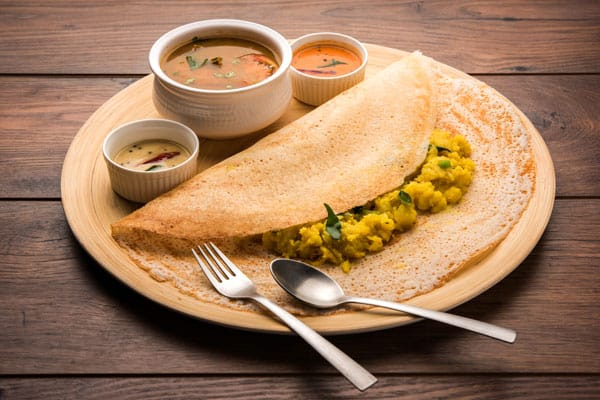
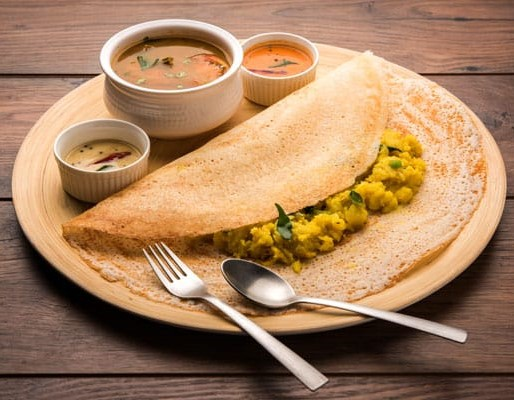
ok

diff --git a/exer1011.html b/exer1011.html
@@ -3,22 +3,22 @@
 <header>
   <title>Wagetable Recipes&nbsp;&nbsp; </title>
   <h1 align="center"><u>Wagetable Recipes </u></h1>
-  <hr><table width="80% " align="justify"> 
+  <hr><table width="90% " align="center"> 
     <tr>
-        <td><h9>1.Kaju Curry Masala </h9></a></td>
-        <td><h9>2.Masala Dosa </h9></a> </td>
-        <td><h9>3.Manchurian </h9></a></td>
-        <td><h9>4.Masala idli</h9></a></td>
-        <td><h9>5.Cutlet</h9></a></td>
-        <td><h9>6.Momos</h9></a></td>
+        <td width="15%"><h9>1.Kaju Curry Masala </h9></a></td>
+        <td  width="15%"><h9>2.Masala Dosa </h9></a> </td>
+        <td  width="15%"><h9>3.Manchurian </h9></a></td>
+        <td  width="15%"><h9>4.Masala idli</h9></a></td>
+        <td  width="15%"><h9>5.Cutlet</h9></a></td>
+        <td  width="15%"><h9>6.Momos</h9></a></td>
       </tr>
   </table></header>
   <hr>
   <table width="80%" align="center">
     <tr>
-      <td><img src="image/Kaju1.jpg" width="720px" height="720"> </td>&nbsp;
-      <td><img src="image/dosa.png" width="670px" height="770"> </td>&nbsp;
-      <td><img src="image/manchurian2.jpeg" width="750px"  height="770"> </td>&nbsp;
+      <td><img src="image/Kaju1.jpg" width="750px" height="768"> </td>&nbsp;
+      <td><img src="image/Dosa2.jpg" width="750px" height="770"> </td>&nbsp;
+      <td><img src="image/manchurian2.jpeg" width="770px"  height="770"> </td>&nbsp;
     </tr>
     <tr>
         <td><a href="kaju.html"><h1>1.Kaju Curry Masala recipe </h1></a></td>
@@ -28,9 +28,9 @@
   </table>
   <table width="80%" align="center">
     <tr>
-      <td><img src="image/idli2.jpg" width="770" height="740px"> </td>&nbsp;
-      <td><img src="image/Cutlet.jpg" width="730px" height="750"> </td>&nbsp;
-      <td><img src="image/momos.jpg" width="750px"  height="770"> </td>&nbsp;
+      <td><img src="image/Idli4.webp" width="750" height="750px"> </td>&nbsp;
+      <td><img src="image/Cutlet.jpg" width="760px" height="750"> </td>&nbsp;
+      <td><img src="image/momos2.jpg" width="750px"  height="750"> </td>&nbsp;
     </tr>
     <tr>
         <td><a href="Masala Idli.html"><h1>4.Masala idli recipe</h1></a></td>

diff --git a/kaju.html b/kaju.html
@@ -18,7 +18,7 @@
             <table width="100%" align="justify">
                 <tr>
                     <td align="left" width="33%">
-                        <img align="justify" src="image/Kaju1.jpg" width="900px">
+                        <img align="justify" src="image/Kaju1.jpg" width="850px" height="800">
                     </td>
                     <td align="left">
                         <article>

diff --git a/Masala Idli.html b/Masala Idli.html
@@ -56,7 +56,7 @@
             </article>
           </td>
           <td align="left" width="33%">
-            <img align="justify" src="image/masala idli.jpg" width="550" height="450px">
+            <img align="justify" src="image/Idli4.webp" width="550" height="480px">
           </td>
         </tr>
       </table>

diff --git a/Momos.html b/Momos.html
@@ -62,7 +62,7 @@
             </article>
           </td>
           <td align="left" width="33%">
-            <img align="justify" src="image/momos.jpg" width="550" height="500px">
+            <img align="justify" src="image/momos2.jpg" width="550" height="500px">
           </td>
         </tr>
       </table>
